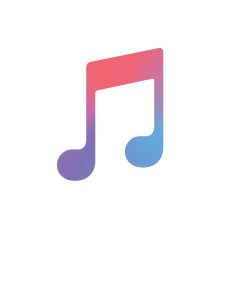
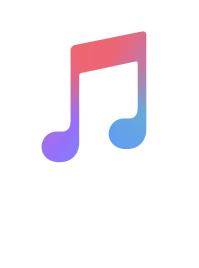
update css photos music messages

Changed region(s): [[0.1809, 0.1194, 0.7538, 0.6567]]

diff --git a/src/App.js b/src/App.js
@@ -9,6 +9,7 @@ import musicIcon from './images/music-icon.png';
 import twitterIcon from './images/twitter-icon.png';
 import facebookIcon from './images/facebook-icon.png';
 import instagramIcon from './images/instagram-icon.png';
+import photosIcon from './images/photos-icon.png';
 
 import './App.css';
 
@@ -66,10 +67,11 @@ class App extends Component {
       <Slider {...settings} class="slider">
         <div className="screen">
           <div className="icon-wrapper">
-            <a onClick={this.handleMessagesClick} id="messages"                     ><img className="icon" alt="icon" src={messagesIcon} /></a>
-            <a href="https://twitter.com" target="_blank" rel="noopener noreferrer" ><img className="icon" alt="icon" src={twitterIcon}  /></a>
-            <a href="https://facebook.com" target="_blank" rel="noopener noreferrer"><img className="icon" alt="icon" src={facebookIcon} /></a>
-            <a onClick={this.handlePhotosClick}                                     ><img className="icon" alt="icon" src={instagramIcon}/></a>
+            <a href="http://www.twitter.com/iamwill" target="_blank" rel="noopener noreferrer" ><img className="icon" alt="icon" src={twitterIcon}  /></a>
+            <a href="https://www.facebook.com/william" target="_blank" rel="noopener noreferrer"><img className="icon" alt="icon" src={facebookIcon} /></a>
+            <a href="https://instagram.com/iamwill" target="_blank"><img className="icon" alt="icon" src={instagramIcon}/></a>
+            <a onClick={this.handleMusicClick}  id="music"   ><img className="icon" alt="icon" src={musicIcon}   /></a>
+            <a onClick={this.handlePhotosClick} id="photos"   ><img className="icon" alt="icon" src={photosIcon}   /></a>
           </div>
         </div>
         <div className="screen">
@@ -86,7 +88,6 @@ class App extends Component {
       <div className="menu-bottom">
         <div className="icon-wrapper">
           <a onClick={this.handleMessagesClick} id="messages"><img className="icon" alt="icon" src={messagesIcon}/></a>
-          <a onClick={this.handleMusicClick}    id="music"   ><img className="icon" alt="icon" src={musicIcon}   /></a>
         </div>
       </div>
     );

diff --git a/src/index.css b/src/index.css
@@ -1,4 +1,5 @@
 body {
+  font-family: "Helvetica Neue", sans-serif;
   background-color: #000;
   margin: 0 !important; }
 
@@ -128,7 +129,11 @@ a {
 
 .icon-wrapper a {
   float: left;
-  margin-right: 30px; }
+  margin-right: 30px;
+  margin-bottom: 10px; }
+
+.message-wrap {
+  text-align: left; }
 
 .will .message-wrap {
   border-radius: 20px 20px 20px 20px;
@@ -223,13 +228,12 @@ a {
   font-size: 18px; }
 
 .tmpHeader {
-  color: #2095FE;
-  background: #eee;
+  color: #333;
+  background: #f7f7f8;
   border: 1px solid #ccc;
-  border-bottom: 1px solid #bbb;
-  box-shadow: 0 1px 2px rgba(1, 1, 1, 0.2);
+  border-bottom: 1px solid #ccc;
   height: 60px;
-  text-align: center;
+  text-align: left;
   font-size: 20px;
   line-height: 58px;
   white-space: nowrap;
@@ -237,6 +241,12 @@ a {
   top: 0;
   z-index: 100;
   width: 358px; }
+  .tmpHeader .arrow {
+    display: inline;
+    float: left;
+    font-size: 30px;
+    font-family: Tahoma;
+    margin-left: 10px; }
   .tmpHeader h2 {
     font-weight: bold;
     color: #111111;
@@ -249,6 +259,13 @@ a {
   background-color: #fff;
   height: 545px;
   overflow: scroll; }
+  .message-list span {
+    display: block;
+    font-weight: bold;
+    margin-bottom: 3px; }
+  .message-list span:nth-child(2n) {
+    font-weight: normal;
+    color: #999; }
   .message-list ul {
     margin: 0;
     padding: 0; }
@@ -260,3 +277,36 @@ a {
       font-size: 14px;
       font-family: "Helvetica Neue", sans-serif;
       margin-left: 10px; }
+
+hr {
+  border-top: 1px solid #f1f1f1; }
+
+.music-header-cp {
+  margin-right: 154px;
+  float: right; }
+
+.photos-header-cp {
+  margin-right: 147px;
+  float: right; }
+
+.messages-header-cp {
+  margin-right: 132px;
+  float: right; }
+
+.sender-name::first-letter {
+  text-transform: uppercase; }
+
+.image-crop {
+  width: 120px;
+  height: 120px;
+  overflow: hidden;
+  float: left; }
+  .image-crop img {
+    height: 120px;
+    width: auto; }
+
+.photos {
+  height: 553px;
+  background-color: #fff;
+  overflow: scroll;
+  margin-top: 62px; }

diff --git a/src/index.scss b/src/index.scss
@@ -1,4 +1,5 @@
 body {
+  font-family: "Helvetica Neue", sans-serif;
   background-color: #000;
   margin: 0 !important;
 }
@@ -146,9 +147,16 @@ a {
   display: block;
 }
 
-.icon-wrapper a {
-  float: left;
-  margin-right: 30px;
+.icon-wrapper {
+  a {
+    float: left;
+    margin-right: 30px;
+    margin-bottom: 10px;
+  }
+}
+
+.message-wrap {
+  text-align: left;
 }
 
 .will .message-wrap {
@@ -254,13 +262,12 @@ a {
 }
 
 .tmpHeader {
-  color: #2095FE;
-  background: #eee;
+  color: #333;
+  background: #f7f7f8;
   border: 1px solid #ccc;
-  border-bottom: 1px solid #bbb;
-  box-shadow: 0 1px 2px rgba(1,1,1,0.2);
+  border-bottom: 1px solid #ccc;
   height: 60px;
-  text-align: center;
+  text-align: left;
   font-size: 20px;
   line-height: 58px;
   white-space: nowrap;
@@ -268,6 +275,15 @@ a {
   top: 0;
   z-index: 100;
   width: 358px;
+
+
+  .arrow {
+    display: inline;
+    float: left;
+    font-size: 30px;
+    font-family: Tahoma;
+    margin-left: 10px;
+  }
 
   h2 {
     font-weight: bold;
@@ -284,6 +300,17 @@ a {
       height: 545px;
       overflow: scroll;
 
+   span {
+     display: block;
+     font-weight: bold;
+     margin-bottom: 3px;
+   }
+
+   span:nth-child(2n) {
+     font-weight: normal;
+     color: #999;
+   }
+
   ul {
     margin: 0;
     padding: 0;
@@ -298,4 +325,46 @@ a {
         margin-left: 10px;
       }
   }
+}
+
+hr {
+  border-top: 1px solid #f1f1f1;
+}
+
+.music-header-cp {
+  margin-right: 154px;
+  float: right;
+}
+
+.photos-header-cp {
+  margin-right: 147px;
+  float: right;
+}
+
+.messages-header-cp {
+  margin-right: 132px;
+  float: right;
+}
+
+.sender-name::first-letter {
+  text-transform: uppercase;
+}
+
+.image-crop {
+    width:120px;
+    height:120px;
+    overflow:hidden;
+    float: left;
+
+    img {
+      height: 120px;
+      width: auto;
+    }
+}
+
+.photos {
+  height: 553px;
+  background-color: #fff;
+  overflow: scroll;
+  margin-top: 62px;
 }

diff --git a/src/components/Photos/index.js b/src/components/Photos/index.js
@@ -28,9 +28,9 @@ export default class Photos extends Component {
       return (
         <div>
           <div onClick={(e)=>this.onPhotoHeaderClick(e)}>
-            <div className="tmpHeader"> {'<'} PHOTOS </div>
+            <div className="tmpHeader"> <div className="arrow">{'<'}</div> <div className="photos-header-cp">Photos</div></div>
           </div>
-
+          <div className="photos">
           {this.state.imageArray.map((image, index) => {
             return(
               <div key={index} className="image-crop">
@@ -38,6 +38,7 @@ export default class Photos extends Component {
               </div>
               );
           })}
+          </div>
         </div>
       );
   }

diff --git a/src/components/Music/index.js b/src/components/Music/index.js
@@ -10,11 +10,11 @@ export default class Music extends Component {
     return (
       <div>
         <div onClick={(e)=>this.onMusicHeaderClick(e)}>
-          <div className="tmpHeader"> {'<'} MUSIC </div>
+          <div className="tmpHeader"> <div className="arrow">{'<'}</div> <div className="music-header-cp">Music</div></div>
         </div>
         <iframe
           width="100%"
-          height="450"
+          height="620"
           scrolling="no"
           frameBorder="no"
           title="music"

diff --git a/src/components/Conversations/index.js b/src/components/Conversations/index.js
@@ -9,7 +9,7 @@ export default class Conversations extends Component {
     return(
       <div>
         <div onClick={(e)=>this.onConversationHeaderClick(e)}>
-          <div className="tmpHeader"> {'<'} Messages </div>
+          <div className="tmpHeader"> <div className="arrow">{'<'}</div> <div className="messages-header-cp">Messages</div></div>
         </div>
 
         {this.props.conversation.messages.map((message, index)=>{

diff --git a/src/components/Messages/index.js b/src/components/Messages/index.js
@@ -75,7 +75,7 @@ export default class Messages extends Component {
     const renderListMessages = (
       <List selectable ripple>
         <div onClick={this.onMessagesHeaderClick}>
-          <div className="tmpHeader"> {'<'} Messages </div>
+          <div className="tmpHeader"> <div className="arrow">{'<'}</div> <div className="messages-header-cp">Messages</div> </div>
         </div>
 
         { listMessages }
